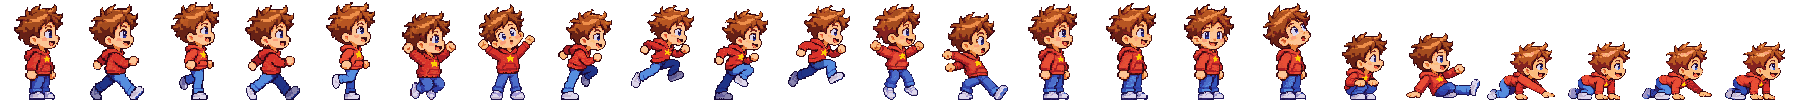
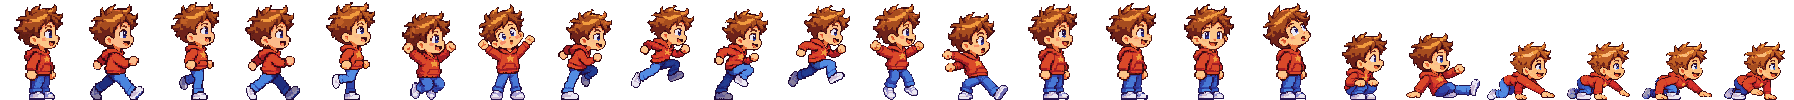
A Boy to the Rescue: krypet omritat – handen närmast spelaren flyttar sig också

diff --git a/docs/anteckningar.md b/docs/anteckningar.md
@@ -1035,7 +1035,7 @@ Användaren: högra sidan av klockrutan var tom (headset med sladd → inget hea
 - **Bana 2 snön – fiender, boss, backar, is (15 nov, användaren valde: pulka med ögon, rullande snöbollar ur en snöhög, snöplog som trampas två gånger, isplattor man halkar på; bossen = en ledsen snögubbe, man bygger en kompis av tre snöklot som hamnar rätt själva, ett i taget, lämnas med B, kameran zoomar ut vid bossen; gossedjuret = pingvinen; backar 45°; Insert/Delete i redigeraren):** `banor/2.json` (`mark` sno-mark, `block` sno-block, `bakgrund` sno-bakgrund, `boss` snogubbe, `triumf` triumf-pingvin, `bur` bur-pingvin) – **banan bygger användaren** (`-- --bana 2 --redigera`). Nya tecken: `I` is (som `G` men halt, `bana.halt()` → `pojke.gd` `IS_ACC/IS_BROMS/IS_VAND`; isen ritas i eget lager utan `MARK_UPP`), `/` `\` backar (`_backar`, jord under; `fast()` räknar diagonalen; rutorna görs i koden av temats gräs/jord – `backe_bild()`, alla teman får backar utan nya bilder; krock = triangel; `floor_max_angle` 50°, snap 16), `q` pulka och `m` snöplog (`gangare.gd` TYPER, `liv` 2 + `skadad`-bild, står still 1 s efter första trampet; väggkollen `bana.vagg()` räknar inte backar, kanten = inget fast 40 px ner, `bana.pa_marken()` lyfter upp till ytan), `n` snöhög (`snohog.gd`, en boll var 2,6 s inom 760 px, högst 2; snöklotet studsar och glittrar ljusgult så det inte förväxlas med snöbollarna – användaren 15 nov), `snoboll.gd` (170 px/s, ±520/s² i backar, inte trampbar, spricker mot vägg), `d` snöklot (bärs över huvudet – `bana._bar`; B vid kompisen = `boss.lamna()`, annars läggs det ner framför fötterna; plockas inte upp igen förrän B släppts), `O` = bossen ur json `boss` (`snogubbe.gd`: `ZOOM` 0,8 → `bana._zooma()` + `limit_top` under 0; himlen ovanför = bakgrundens översta färg; `sover` = klar). Mätfelet räknas: plogen räknas som utslagen först när den är platt. Bilder: `tools/barnspelet-bilder.py sno sno-bakgrund` (Kakans bakgrund nr 1 av 2 – nr 2 hade en randig remsa längst ner). Redigeraren: Insert/Delete = tom kolumn in/ut där musen är (`_kolumn`), bossknappen visar banans boss. **Prov** `-- --prov-sno` (16, egen tillfällig bana `provsno-tillfallig`, tas bort) + Insert/Delete i `--prov-red`; alla fyra provsviterna klarade. Skärmbilder sedda (is, backe, block, pulka, plog, snöhög, snögubbe). **Inte provat:** spelat med kontrollen, bana 2 byggd av användaren, barnläget (bara bana 1 där).
 - **Banväljaren (15 nov, användaren: "ett fönster till redigeraren som jag startar och väljer bana i som sen startar den banan"; "dom temana vi har kan finnas med men dom behöver jag inte kunna starta, bara dom vi har gjort grund till"):** `meny.tscn` + `meny.gd`, `-- --meny` (`Spel.fran_meny`; `bana._ready` byter till menyn första gången – `Spel.meny_visad`). Tio rutor (`TEMAN`), grund = `banor/<nr>.json` finns → bild (bakgrundens vänstra del), bästa tid / "inte byggd än", **Redigera** och **Spela** (Spela grå tills `<nr>.txt` finns); övriga gråa "kommer sen". `_starta()` nollar redigerarens läge, liv, flagga och tid. **Esc** i banan/redigeraren → `Spel.till_menyn()` (bara från menyn, aldrig i barnläget); E/T i menyn gör inget. Menyposten "A Boy to the Rescue – Redigera": `tools/barnspelet-redigera-meny.sh` → `~/.local/share/applications/goblincakes-barnspelet-redigera.desktop` (Godot-kopian i `~/.local/share/goblincakes/barnspelet/godot`, spelet ur repot; användaren sa ja 15 nov), inlagd. Prov `-- --prov-meny` (5). Skärmbild sedd. **Inte provat:** användaren med musen, menyposten startad från programmenyn.
 - **Redigeraren efter tema + zoom (15 nov, användaren: "sålla ut vad man kan lägga till beroende på teman, jag behöver inte kunna se djungeltema grejer"; "zooma ut om jag vill ha mer utrymme"):** `VERKTYG` fjärde fältet = tema (banans json `"tema"`: djungel, sno) eller `bild:<ruta>` (vatten/is bara när markbladet har rutan); utan = alla banor; banor utan `tema` (provbanan) visar allt. `_synliga` = det som visas, 1–9/0 väljer bland dem; ett gömt valt verktyg → marken. Nytt tema: sätt `"tema"` i json och märk dess fiender i `VERKTYG`. Zoom: Ctrl+hjulet eller +/− (40–100 %, steg 10), `Spel.red_zoom` (kvar när scenen byggs om efter varje ändring), `_zooma()` sätter `limit_top` under 0 (himlen = bakgrundens översta färg), flyttfarten och rutnätet följer zoomen. **Felet "lägger ut samma sak lite överallt" (15 nov, användaren):** musens ruta räknades ur kameran – efter varje ändring byggs banan om, och första bildrutan stod kameran (fysikinterpoleringen) på ett annat ställe; med knappen nere hamnade saken där → ny ombyggnad → osv. Nu `_mus()` = `Spel.red_kamera` + (musen − mitten) / zoom, och kameran `reset_physics_interpolation()` i `bana._redigera`. Prov `-- --prov-klick` (riktigt musklick via `Input.parse_input_event`, knappen nere 20 bildrutor, zoom 100/60/40 %, tillfällig kopia av bana 1) – klarar sig både före och efter rättelsen, även i fönster, så felet är **inte återskapat**; orsaken är en slutsats. Prov: tema i `--prov-meny`, zoom i `--prov-red`; skärmbild 50 % sedd (`-- --bild … --zoom 0.5`). **Inte provat:** användaren med musen.
-- **Snön: backar, is, pulka, glidning, höjd, snöbollar (15 nov kväll, användaren: "konstiga klipp till nästa backdel", "isblocken … lite snö på", "pulkan ska kunna åka ner för backar", "när man slidar ska man kunna komma under block", "bygga mer uppåt … hela vägen upp till toppen av skärmen", "hoppa på snöbollarna"):** backens fot = `_backe_fot()` – rutan under en backe får gräsrutans rader som inte fick plats (eget lager, MARK_UPP), så snö+gräsjord är lika tjock längs hela backen. Isen: `_snotacke()` – gräsrutans snöpixlar (blåvita, ljusa) i ett lager MARK_UPP ovanför isrutor utan mark ovanpå. Pulkan: `gangare.gd` fart ×2,6 nerför/×0,6 uppför; kantkollen 64 px i en backe + `bana.backe_under()` (annars vände den längst ner i en 1-rutors backe – marken 47 px ner). Pojken: `LAG` 40 (block en ruta upp = 48 px luft), under tak tar glidningen inte slut (minst `KRYP`×1,5), duckar = kryper `KRYP` 110 (användaren: "crouch walk", gungar 2 px tills en krypbild finns). **Fastnade** (användarens skärm): glidning under tak som stannade (mot en låda) blev kvar i glidläget utan fart och styrning → nu blir det ducka/kryp så fort farten under taket är ≤ `KRYP`; prov "glidning som stannar under block = duckar", "kryper ut åt andra hållet", "kryper på öppen mark". **Trampen** (användaren: "snöplogarna … ibland träffar man rätt, ibland dör man direkt"): `bana._physics_process` – övre 60 % av träffrutan (minst 22 px) = tramp (skopan sitter ~34 px under plogens tak), bedövad (`_stum` > 0) = ofarlig (landar man på den studsar man), på väg upp i trampzonen = ingenting (förut låg pojken kvar i rutan efter studsen och dog). Prov: pojken faller på plogen på riktigt (lågt på skopan, bedövad, andra trampet, från sidan = oj). **Hålen i knapparna** (användaren: "knapparna blir konstiga när dom rör sig … fler hål än vad dom har"): `project.godot` `window/stretch/mode` "viewport" → **"canvas_items"** – förut ritades banan i 960×540 och förstorades ×2, så i 60 % tappades ~40 % av bildernas pixelrader (olika rader när något rörde sig). Nu ritas allt direkt i 1920×1080 (snön = ×1,2, inga pixlar tappas). Djungeln i 100 % blev pixel för pixel likadan (jämförd); alla provsviter + klickprovet i fönster klarade; skärmbilder sedda (knapparna, redigeraren). Skärmbilder med `--bild` blir nu 1920×1080. **Kläder per bana + kryp (15 nov, användaren: "speciella kläder för banor som har ett ovanligt tema"; Kakan först – hon kan inte utgå från en bild (Z-Image bara text; qwen3-vl beskrev pojken rätt men ritningen blev en annan pojke, framifrån) → ChatGPT/Codex):** banans json `"pojke"` = bladet (`pojke.gd` läser `bana._meta`, saknas filen → `pojken`); snön `pojken-vinter`. Förlagan `~/Bilder/barnspelet/pojken-vinter-forlaga.png` (godkänd: "perfekt"), `codex exec -i <original> -i <förlaga>` ritade om varje källbild som `…-vinter-prov….png` (samma duk och storlek → `figur("-vinter")` använder de vanliga bildernas skala, annars krympte han under mössan). **Benen i vintergången:** byxorna mörka redan och kängorna mörknade inte → "samma ben" (användaren); `darken_leg(…, winter)` mörkar kängorna också och mer (×0,5), letar benen 12 px under jackan (vantarna räknades som ben), hälkanten = röd med grönt < 0,38 × rött (kängor/hår är bruna). Mellanstegen gick inte att mörka i efterhand (benen ihop) → Codex ritade dem om från det VANLIGA bladets rättade mellansteg (`pojken-mellan-ref.png`, 8× uppförstorade) → `pojken-mellan-vinter-prov.png` (två figurer). **Kryp:** `kryp1–4` i båda bladen (huvudet lika stort som stående – `hair_width()`, ~60 px; 46 px var "krymper jättemycket"), animationen `kryp` 7 fps när han duckar och rör sig; första ritningen (`…-forsta.png`) hade tre fötter / samma ben → omritad med regler per bild (två händer, två knän, bortre arm/ben mörkare, växlar); andra omgången (`…-andra.png`): ena armen stod still ("ena armen är alltid stilla") → tredje: armarna växlar med motsatt knä. Krypbilderna delar palett med resten → vanliga bladets färger ändrades lite (412 px). Prov: banväljaren väntar nu på scenbytet (`_scen`) – fem bildrutor räckte inte längre. Skärmbilder sedda (gång, mellansteg, kryp, vinterpojken i banan). **Inte provat:** användaren spelar, krypet i rörelse. Höjden: `bana._hogre()` lägger tomma rader överst till `ceil(540/zoom/48)` (snön 19), skrivs in i filen bara i redigeraren (redigeraren räknar ur filen); bakgrunden ligger `(hojd−12)×48` ner. Snöbollen trampbar, `raknas` false (inte i målets räkning). Prov i `--prov-sno` (+5, rader överst, pulkan nerför, glida under block, krypa ut, trampa snöboll; gamla proven räknar med `U` = de nya raderna); alla sex provsviterna klarade, skärmbilder av backarna och isen sedda. **Inte provat:** användaren spelar. **Andedräkten** (användaren: "lite luft som syns när han andas"): banans json `"andedrakt": true` (snön) → `pojke._andedrakt()`: ett 10×7-pixelmoln ritat i koden ur munnen (17 px fram, 30 under huvudet; lägre när han duckar) var 1,6–2,4 s (0,9–1,3 när han springer), glider fram, växer ×2,6 och bleknar på 1,1 s. Skärmbild sedd.
+- **Snön: backar, is, pulka, glidning, höjd, snöbollar (15 nov kväll, användaren: "konstiga klipp till nästa backdel", "isblocken … lite snö på", "pulkan ska kunna åka ner för backar", "när man slidar ska man kunna komma under block", "bygga mer uppåt … hela vägen upp till toppen av skärmen", "hoppa på snöbollarna"):** backens fot = `_backe_fot()` – rutan under en backe får gräsrutans rader som inte fick plats (eget lager, MARK_UPP), så snö+gräsjord är lika tjock längs hela backen. Isen: `_snotacke()` – gräsrutans snöpixlar (blåvita, ljusa) i ett lager MARK_UPP ovanför isrutor utan mark ovanpå. Pulkan: `gangare.gd` fart ×2,6 nerför/×0,6 uppför; kantkollen 64 px i en backe + `bana.backe_under()` (annars vände den längst ner i en 1-rutors backe – marken 47 px ner). Pojken: `LAG` 40 (block en ruta upp = 48 px luft), under tak tar glidningen inte slut (minst `KRYP`×1,5), duckar = kryper `KRYP` 110 (användaren: "crouch walk", gungar 2 px tills en krypbild finns). **Fastnade** (användarens skärm): glidning under tak som stannade (mot en låda) blev kvar i glidläget utan fart och styrning → nu blir det ducka/kryp så fort farten under taket är ≤ `KRYP`; prov "glidning som stannar under block = duckar", "kryper ut åt andra hållet", "kryper på öppen mark". **Trampen** (användaren: "snöplogarna … ibland träffar man rätt, ibland dör man direkt"): `bana._physics_process` – övre 60 % av träffrutan (minst 22 px) = tramp (skopan sitter ~34 px under plogens tak), bedövad (`_stum` > 0) = ofarlig (landar man på den studsar man), på väg upp i trampzonen = ingenting (förut låg pojken kvar i rutan efter studsen och dog). Prov: pojken faller på plogen på riktigt (lågt på skopan, bedövad, andra trampet, från sidan = oj). **Hålen i knapparna** (användaren: "knapparna blir konstiga när dom rör sig … fler hål än vad dom har"): `project.godot` `window/stretch/mode` "viewport" → **"canvas_items"** – förut ritades banan i 960×540 och förstorades ×2, så i 60 % tappades ~40 % av bildernas pixelrader (olika rader när något rörde sig). Nu ritas allt direkt i 1920×1080 (snön = ×1,2, inga pixlar tappas). Djungeln i 100 % blev pixel för pixel likadan (jämförd); alla provsviter + klickprovet i fönster klarade; skärmbilder sedda (knapparna, redigeraren). Skärmbilder med `--bild` blir nu 1920×1080. **Kläder per bana + kryp (15 nov, användaren: "speciella kläder för banor som har ett ovanligt tema"; Kakan först – hon kan inte utgå från en bild (Z-Image bara text; qwen3-vl beskrev pojken rätt men ritningen blev en annan pojke, framifrån) → ChatGPT/Codex):** banans json `"pojke"` = bladet (`pojke.gd` läser `bana._meta`, saknas filen → `pojken`); snön `pojken-vinter`. Förlagan `~/Bilder/barnspelet/pojken-vinter-forlaga.png` (godkänd: "perfekt"), `codex exec -i <original> -i <förlaga>` ritade om varje källbild som `…-vinter-prov….png` (samma duk och storlek → `figur("-vinter")` använder de vanliga bildernas skala, annars krympte han under mössan). **Benen i vintergången:** byxorna mörka redan och kängorna mörknade inte → "samma ben" (användaren); `darken_leg(…, winter)` mörkar kängorna också och mer (×0,5), letar benen 12 px under jackan (vantarna räknades som ben), hälkanten = röd med grönt < 0,38 × rött (kängor/hår är bruna). Mellanstegen gick inte att mörka i efterhand (benen ihop) → Codex ritade dem om från det VANLIGA bladets rättade mellansteg (`pojken-mellan-ref.png`, 8× uppförstorade) → `pojken-mellan-vinter-prov.png` (två figurer). **Kryp:** `kryp1–4` i båda bladen (huvudet lika stort som stående – `hair_width()`, ~60 px; 46 px var "krymper jättemycket"), animationen `kryp` 7 fps när han duckar och rör sig; första ritningen (`…-forsta.png`) hade tre fötter / samma ben → omritad med regler per bild (två händer, två knän, bortre arm/ben mörkare, växlar); andra omgången (`…-andra.png`): ena armen stod still ("ena armen är alltid stilla") → tredje (`…-tredje.png`): den närmre handen stod still under bröstet ("armen mot spelaren är alltid stilla") → fjärde: handens plats beskriven per bild (fram, under bröstet, bak under magen, under bröstet). Krypbilderna delar palett med resten → vanliga bladets färger ändrades lite (412 px). Prov: banväljaren väntar nu på scenbytet (`_scen`) – fem bildrutor räckte inte längre. Skärmbilder sedda (gång, mellansteg, kryp, vinterpojken i banan). **Inte provat:** användaren spelar, krypet i rörelse. Höjden: `bana._hogre()` lägger tomma rader överst till `ceil(540/zoom/48)` (snön 19), skrivs in i filen bara i redigeraren (redigeraren räknar ur filen); bakgrunden ligger `(hojd−12)×48` ner. Snöbollen trampbar, `raknas` false (inte i målets räkning). Prov i `--prov-sno` (+5, rader överst, pulkan nerför, glida under block, krypa ut, trampa snöboll; gamla proven räknar med `U` = de nya raderna); alla sex provsviterna klarade, skärmbilder av backarna och isen sedda. **Inte provat:** användaren spelar. **Andedräkten** (användaren: "lite luft som syns när han andas"): banans json `"andedrakt": true` (snön) → `pojke._andedrakt()`: ett 10×7-pixelmoln ritat i koden ur munnen (17 px fram, 30 under huvudet; lägre när han duckar) var 1,6–2,4 s (0,9–1,3 när han springer), glider fram, växer ×2,6 och bleknar på 1,1 s. Skärmbild sedd.
 - **Zoom per bana (15 nov, användaren: "jag vill välja vilken zoom det ska vara per bana, jungelbanan är perfekt som den är, snöbanan vill jag ha lite mer hopp på, då passar det bra med större vy" – visade redigeraren på 60 %):** banans json `"zoom"` (snön 0.6), annars `Spel.ZOOM` 1.0; `bana.zoom()`, kameran i `_ny_kamera` (+ `limit_top` under 0 = himmel ovanför den låga banan), bossens `ZOOM` bara om den är mer utzoomad (`minf`). Redigeraren börjar på banans zoom (`Spel.red_zoom` −1 = "som banan", nollas från banväljaren). Prov: zoomen i `--prov-djungel` och `--prov-sno`.
 - **Idé: manteln som powerup (15 nov, användaren: "den kan vara en powerup som krävs för att klara en bana och boss")** – den rutiga filten från ikonbilden. Byggs inte än; förslag lämnade (glidflyg, flyga högre, skydd), Y = kraft-knappen. **Användaren 15 nov:** kanske i molnbanan (bana 6) – pojken får manteln och kan flyga.
 - **Ordningen (15 nov, användaren):** banorna först, sedan kartan runt dem, sedan barnläget. **Bana 1 djungel – bossen:** en leksaks-orangutang som man kastar bananer till tills den blir mätt och somnar. Egna fiender per tema. **Djungelns fiender (valda 15 nov):** leksaksorm (ringlar på marken, hoppa över/trampa), plyschpapegoja (flyger i vågor), krokodil som hoppar upp ur vattengropar, kokosnötter som ramlar från palmer (fara, skakar först). Uppdragbar apa med cymbaler valdes inte. Bananerna ligger framme när man kommer till bossen, kastas med **B**; träff i munnen = mättare (syns som bild: magen, trötta ögon), 3–5 bananer → gäspar och somnar → buren öppnas. Gossedjuret i djungeln = Björnen.
